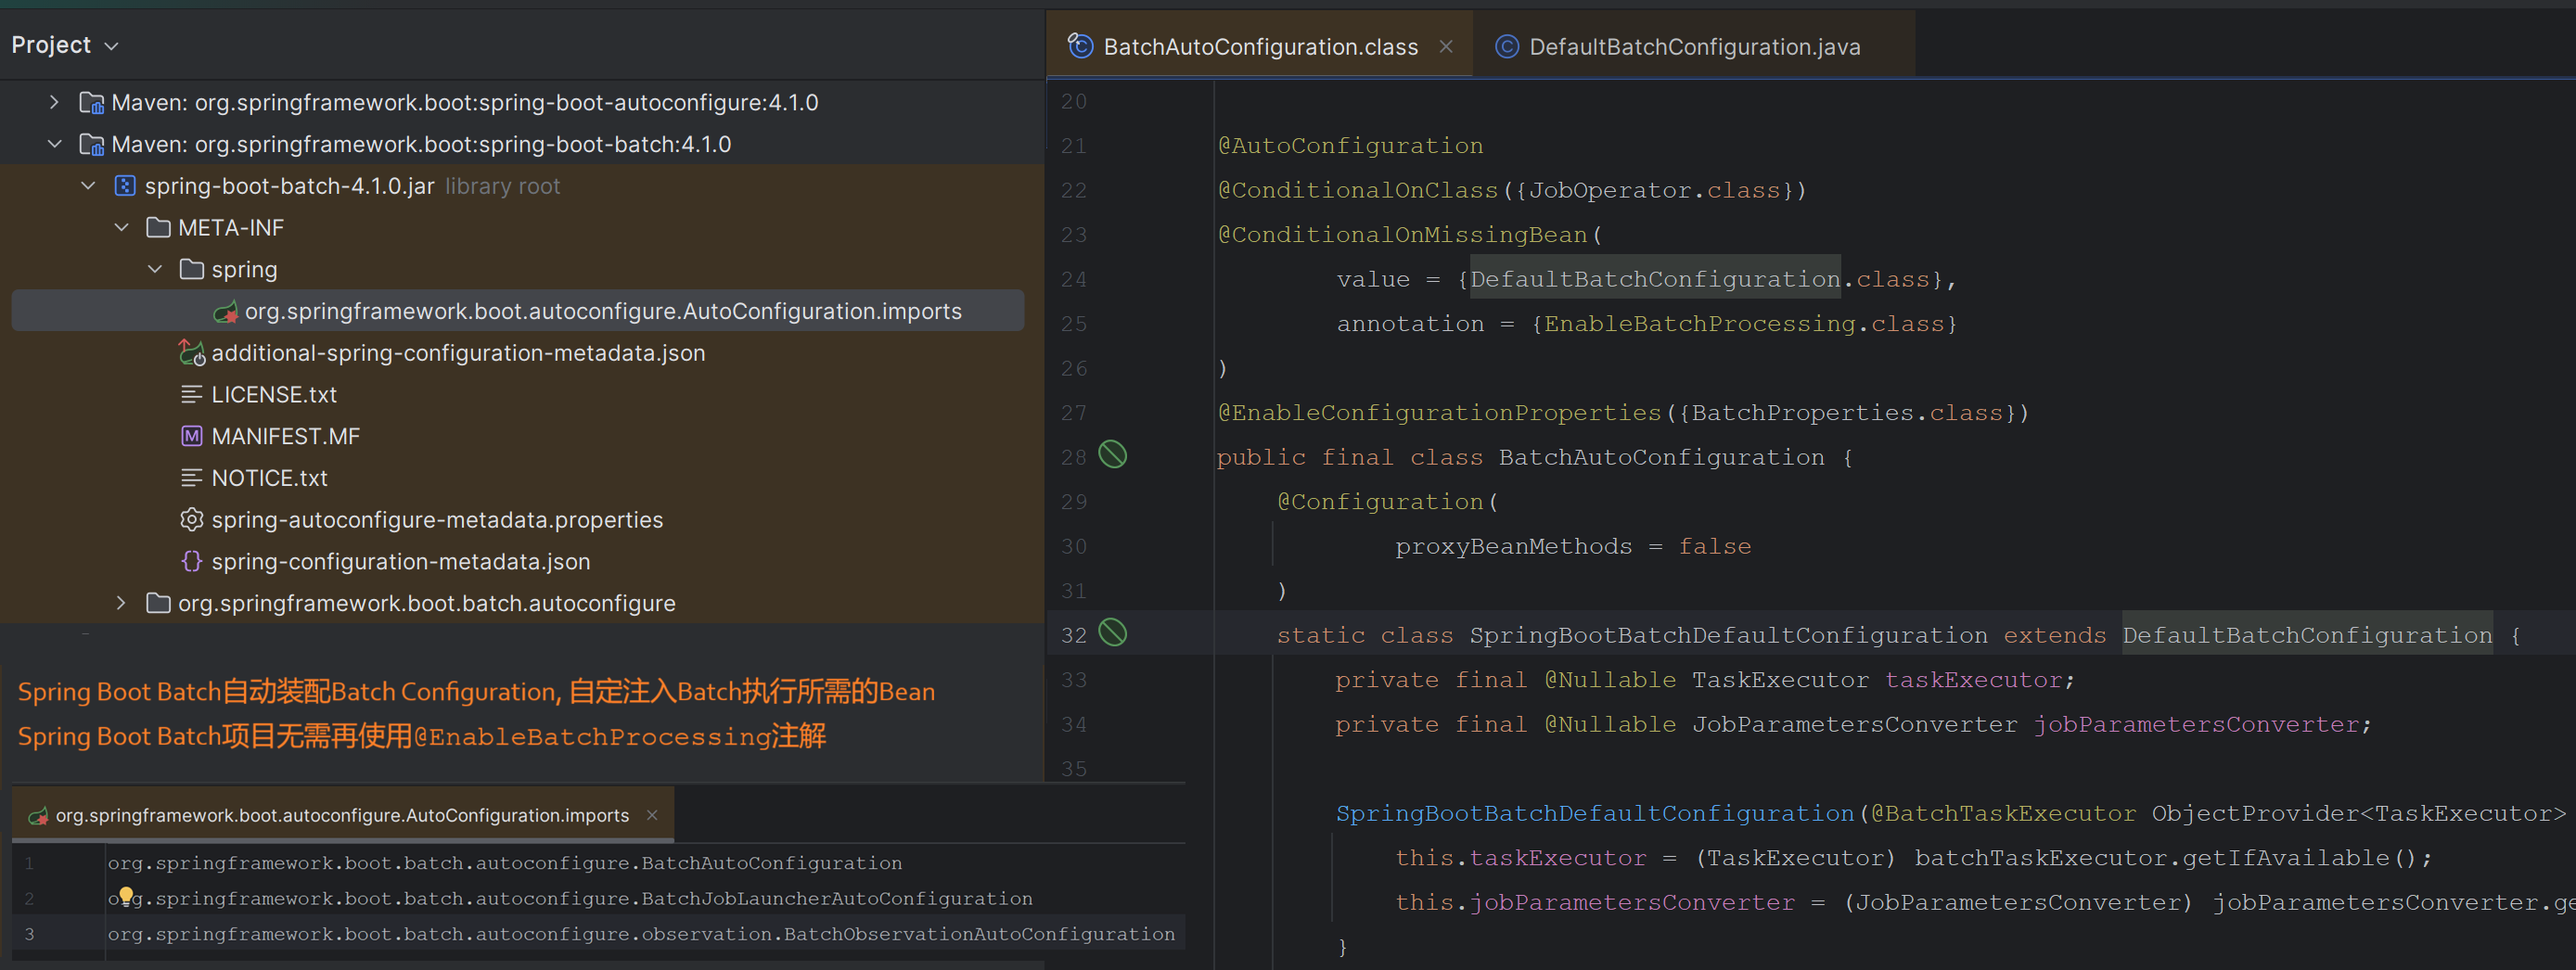
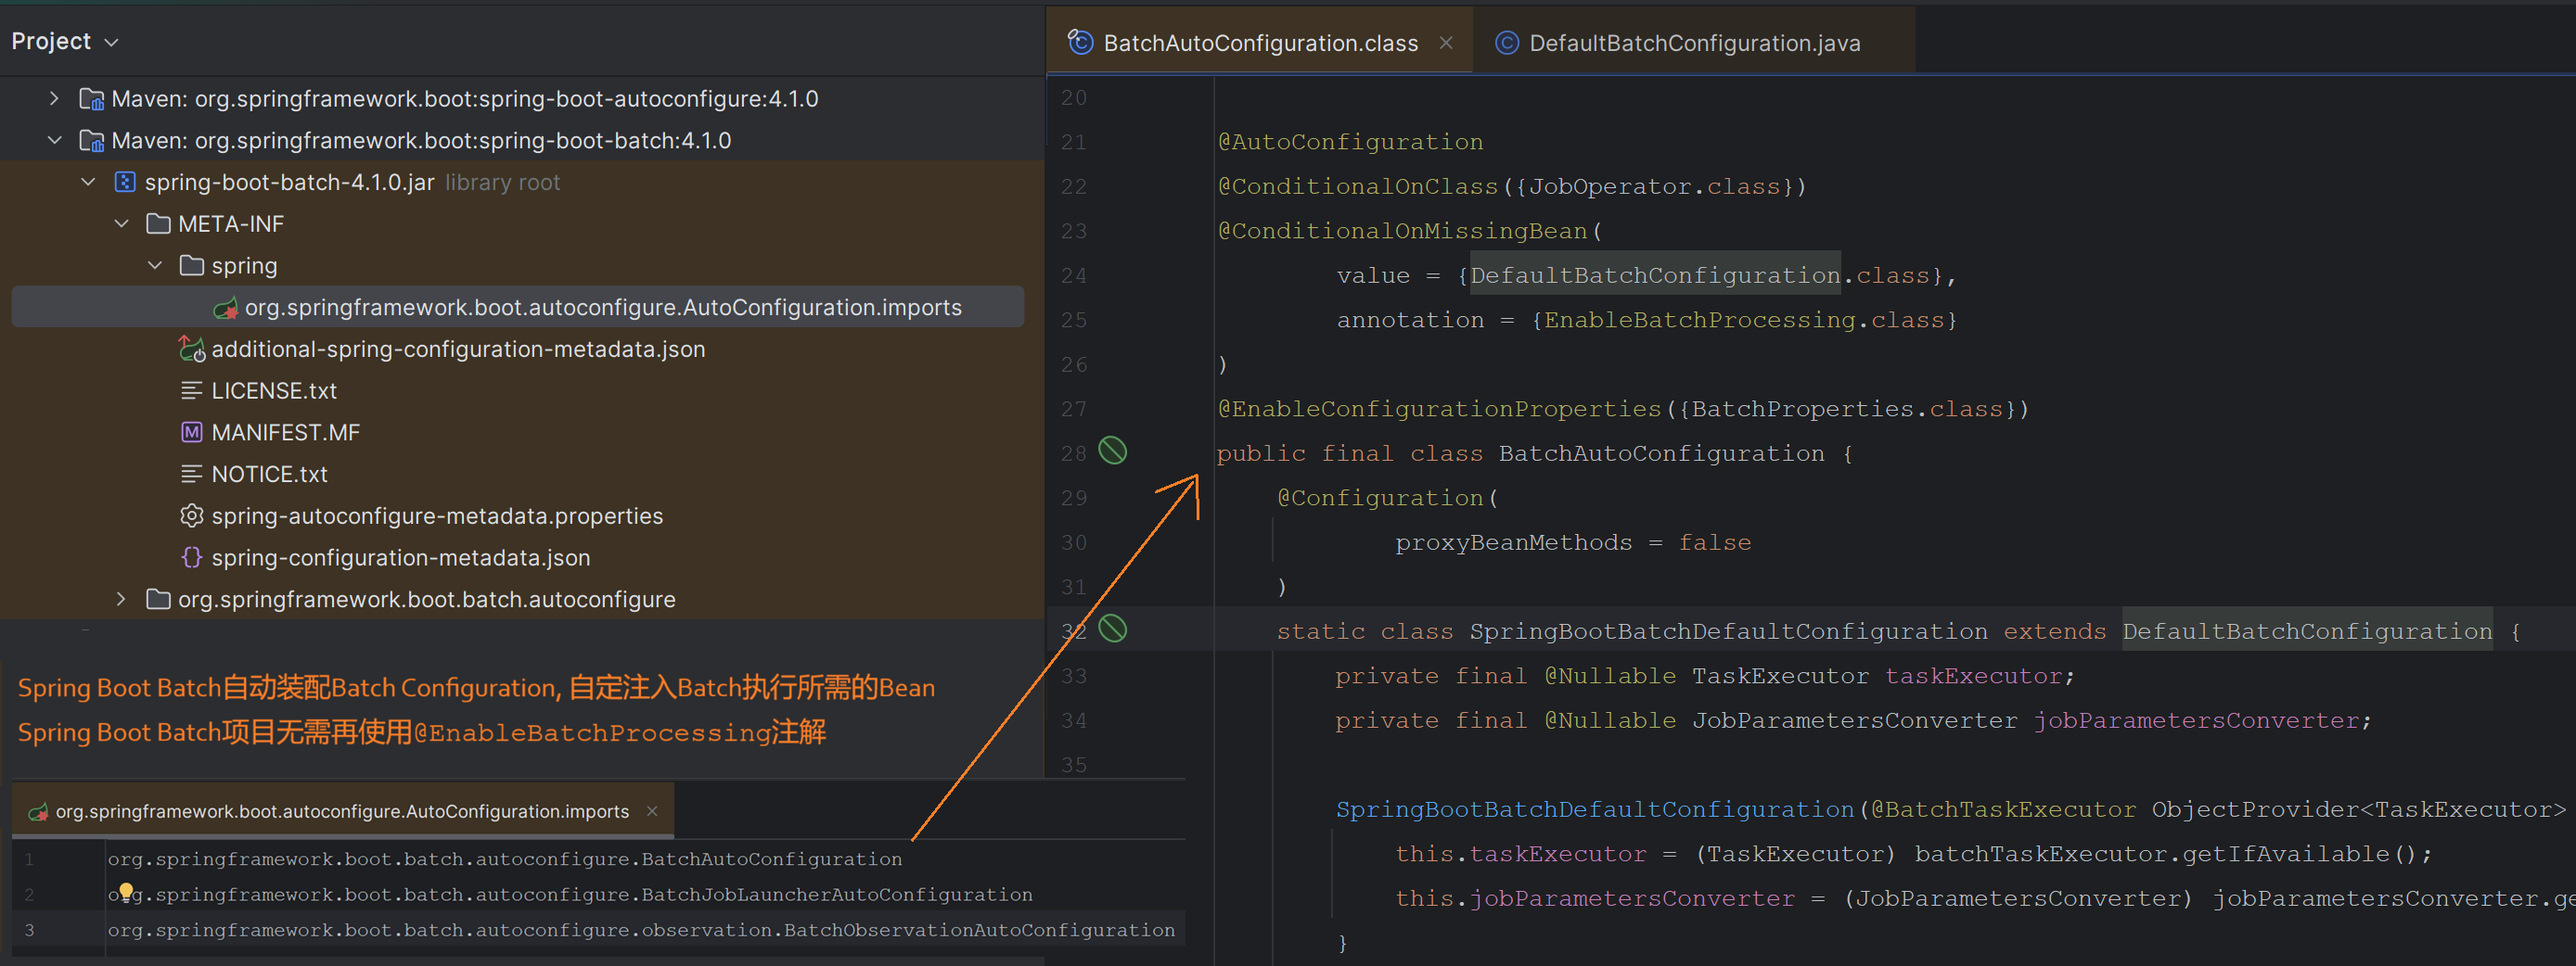
refresh spring batch listener

diff --git a/spring-batch-core/src/main/java/spring/batch/csv2xml/CsvToXmlJobConfiguration.java b/spring-batch-core/src/main/java/spring/batch/csv2xml/CsvToXmlJobConfiguration.java
@@ -11,6 +11,7 @@ import org.springframework.batch.infrastructure.item.file.transform.DelimitedLin
 import org.springframework.beans.factory.annotation.Qualifier;
 import org.springframework.oxm.jaxb.Jaxb2Marshaller;
 import spring.batch.csv2xml.bean.Transaction;
+import spring.batch.csv2xml.listener.MyChunkListener;
 import spring.batch.csv2xml.listener.MyItemProcessorListener;
 import spring.batch.csv2xml.process.TransactionItemProcessor;
 import spring.batch.csv2xml.listener.MyJobExecutionListener;
@@ -28,25 +29,32 @@ import java.time.format.DateTimeFormatter;
 public class CsvToXmlJobConfiguration {
 
     @Bean(name = "csvToXmlJob")
-    public Job csvToXmljob(JobRepository jobRepository, @Qualifier("csvToXmlStep") Step csvToXmlStep) {
+    public Job csvToXmljob(JobRepository jobRepository,
+                           MyJobExecutionListener jobExecutionListener,
+                           @Qualifier("csvToXmlStep") Step csvToXmlStep) {
         return new JobBuilder("Csv To Xml Job", jobRepository)
                 .preventRestart()
-                .listener(MyJobExecutionListener.class) // Job Listener
+                .listener(jobExecutionListener)  // Job Listener
                 .start(csvToXmlStep)
                 .build();
     }
 
+    // TODO. 统一设置Step在执行过程中多种Listener监听器
     @Bean(name = "csvToXmlStep")
     public Step csvToXmlStep(JobRepository jobRepository,
-                            ItemReader<Transaction> reader,
-                            TransactionItemProcessor itemProcessor,
-                            ItemWriter<Transaction> writer) {
+                             ItemReader<Transaction> reader,
+                             TransactionItemProcessor itemProcessor,
+                             ItemWriter<Transaction> writer,
+                             MyStepExecutionListener stepExecutionListener,
+                             MyChunkListener chunkListener,
+                             MyItemProcessorListener itemProcessorListener) {
         return new StepBuilder("Csv To Xml Step", jobRepository)
-                .listener(MyStepExecutionListener.class) // Step Listener
+                .listener(stepExecutionListener) // Step Listener
                 .<Transaction, Transaction>chunk(3)
+                .listener(chunkListener)         // Chunk Listener
                 .reader(reader)
                 .processor(itemProcessor)
-                .listener(MyItemProcessorListener.class) // Item Listener
+                .listener(itemProcessorListener) // Item Listener
                 .writer(writer)
                 .build();
     }

diff --git a/spring-batch-project/src/main/java/project/transaction/CustomTransactionTemplate.java b/spring-batch-project/src/main/java/project/transaction/CustomTransactionTemplate.java
@@ -3,19 +3,19 @@ package project.transaction;
 import org.springframework.jdbc.datasource.DataSourceTransactionManager;
 import org.springframework.stereotype.Component;
 import org.springframework.transaction.TransactionDefinition;
-import org.springframework.transaction.support.TransactionCallbackWithoutResult;
+import org.springframework.transaction.TransactionStatus;
 import org.springframework.transaction.support.TransactionTemplate;
 
 import javax.sql.DataSource;
+import java.util.function.Consumer;
 
-// TODO. TransactionTemplate.execute() 编程式事务控制
-// - 配置数据持久化事务的Callback和Listener
-// - 设置事务执行的隔离级别和传播机制
+// TODO. TransactionTemplate.execute()编程式事务控制
 @Component
 public class CustomTransactionTemplate {
 
-    private TransactionTemplate transactionTemplate;
+    private final TransactionTemplate transactionTemplate;
 
+    // 设置事务执行的隔离级别和传播机制
     public CustomTransactionTemplate(DataSource dataSource) {
         DataSourceTransactionManager txManager = new DataSourceTransactionManager(dataSource);
         transactionTemplate = new TransactionTemplate(txManager);
@@ -23,12 +23,15 @@ public class CustomTransactionTemplate {
         transactionTemplate.setPropagationBehavior(TransactionDefinition.PROPAGATION_REQUIRED);
     }
 
-    public void execute(TransactionCallbackWithoutResult callback, CustomTransactionListener listener) {
+    // 为事务的执行添加Listener监听器控制
+    // Execute the action specified by the given Runnable within a transaction.
+    public void execute(Consumer<TransactionStatus> action, CustomTransactionListener listener) {
         if (listener == null) {
             throw new RuntimeException("listener can't be null");
         }
+
         listener.beforeTransaction();
-        this.transactionTemplate.execute(callback);
+        this.transactionTemplate.executeWithoutResult(action);
         listener.afterTransaction();
     }
 }

diff --git a/spring-batch-project/src/main/java/project/DatabaseConfiguration.java b/spring-batch-project/src/main/java/project/DatabaseConfiguration.java
@@ -14,6 +14,17 @@ import javax.sql.DataSource;
 public class DatabaseConfiguration extends DefaultBatchConfiguration {
 
     @Bean
+    public DataSource dataSource() {
+        DriverManagerDataSource dataSource = new DriverManagerDataSource();
+        dataSource.setDriverClassName("org.postgresql.Driver");
+        dataSource.setUsername("postgres");
+        dataSource.setPassword("postgres");
+        dataSource.setUrl("jdbc:postgresql://localhost:5432/spring_batch");
+        return dataSource;
+    }
+
+    // 注入JobRepository并设置事务隔离级别, 具体隔离级别可由TransactionTemplate控制
+    @Bean
     public JobRepository jobRepository(DataSource dataSource) throws BatchConfigurationException {
         try {
             JdbcJobRepositoryFactoryBean factory = new JdbcJobRepositoryFactoryBean();
@@ -25,15 +36,5 @@ public class DatabaseConfiguration extends DefaultBatchConfiguration {
         } catch (Exception exception) {
             throw new BatchConfigurationException("Unable to configure the default job repository", exception);
         }
-    }
-
-    @Bean
-    public DataSource dataSource() {
-        DriverManagerDataSource dataSource = new DriverManagerDataSource();
-        dataSource.setDriverClassName("org.postgresql.Driver");
-        dataSource.setUsername("postgres");
-        dataSource.setPassword("postgres");
-        dataSource.setUrl("jdbc:postgresql://localhost:5432/spring_batch");
-        return dataSource;
     }
 }

diff --git a/spring-batch-core/src/main/java/spring/batch/DatabaseConfiguration.java b/spring-batch-core/src/main/java/spring/batch/DatabaseConfiguration.java
@@ -13,7 +13,16 @@ import javax.sql.DataSource;
 @Configuration
 public class DatabaseConfiguration extends DefaultBatchConfiguration {
 
-    // 注入JobRepository: 修改事务隔离级别"ISOLATION_SERIALIZABLE"以支持事务并发
+    @Bean
+    public DataSource dataSource() {
+        DriverManagerDataSource dataSource = new DriverManagerDataSource();
+        dataSource.setDriverClassName("org.postgresql.Driver");
+        dataSource.setUsername("postgres");
+        dataSource.setPassword("postgres");
+        dataSource.setUrl("jdbc:postgresql://localhost:5432/spring_batch");
+        return dataSource;
+    }
+
     @Bean
     public JobRepository jobRepository(DataSource dataSource) throws BatchConfigurationException {
         try {
@@ -26,15 +35,5 @@ public class DatabaseConfiguration extends DefaultBatchConfiguration {
         } catch (Exception exception) {
             throw new BatchConfigurationException("Unable to configure the default job repository", exception);
         }
-    }
-
-    @Bean
-    public DataSource dataSource() {
-        DriverManagerDataSource dataSource = new DriverManagerDataSource();
-        dataSource.setDriverClassName("org.postgresql.Driver");
-        dataSource.setUsername("postgres");
-        dataSource.setPassword("postgres");
-        dataSource.setUrl("jdbc:postgresql://localhost:5432/spring_batch");
-        return dataSource;
     }
 }

diff --git a/spring-batch-project/src/main/java/project/transaction/RecordTransactionService.java b/spring-batch-project/src/main/java/project/transaction/RecordTransactionService.java
@@ -5,11 +5,12 @@ import org.springframework.jdbc.core.namedparam.SqlParameterSource;
 import org.springframework.jdbc.core.namedparam.SqlParameterSourceUtils;
 import org.springframework.stereotype.Service;
 import org.springframework.transaction.TransactionStatus;
-import org.springframework.transaction.support.TransactionCallbackWithoutResult;
 
 import javax.sql.DataSource;
 import java.util.List;
+import java.util.function.Consumer;
 
+// TODO. 为Batch批提交添加编程式事务控制
 @Service
 public class RecordTransactionService {
 
@@ -21,11 +22,10 @@ public class RecordTransactionService {
         this.namedParameterJdbcTemplate = new NamedParameterJdbcTemplate(dataSource);
     }
 
-    // TODO. 为Batch批提交添加编程式事务控制
     public void insert(List<String> records) {
-        this.transactionTemplate.execute(new TransactionCallbackWithoutResult() {
+        this.transactionTemplate.execute(new Consumer<TransactionStatus>() {
             @Override
-            protected void doInTransactionWithoutResult(TransactionStatus status) {
+            public void accept(TransactionStatus transactionStatus) {
                 batchUpdate(records, "sql");
             }
         }, new CustomTransactionListenerImpl());

diff --git a/spring-batch-core/src/main/java/spring/batch/csv2xml/listener/MyJobExecutionListener.java b/spring-batch-core/src/main/java/spring/batch/csv2xml/listener/MyJobExecutionListener.java
@@ -1,10 +1,11 @@
 package spring.batch.csv2xml.listener;
 
-
 import org.springframework.batch.core.job.JobExecution;
 import org.springframework.batch.core.listener.JobExecutionListener;
+import org.springframework.stereotype.Component;
 
-// JOB执行的监听器，可以在执行前后完成额外的操作
+// JOB执行的监听器，在执行前后执行额外操作
+@Component
 public class MyJobExecutionListener implements JobExecutionListener {
 
     @Override
@@ -13,8 +14,11 @@ public class MyJobExecutionListener implements JobExecutionListener {
         System.out.println(jobName);
     }
 
+    // 判断JOB执行参数，统计时间，释放资源，日志监控等
     @Override
     public void afterJob(JobExecution jobExecution) {
-        // 可以统计Job执行完成的时间
+        System.out.println("=== After JOB ===");
+        System.out.println(jobExecution.getStatus());
+        System.out.println(jobExecution.getJobParameters().getLong("timestamp"));
     }
 }

diff --git a/spring-batch-core/src/main/java/spring/batch/SpringBatchCoreApplication.java b/spring-batch-core/src/main/java/spring/batch/SpringBatchCoreApplication.java
@@ -13,13 +13,13 @@ import org.springframework.batch.core.job.parameters.JobParameters;
 @SpringBootApplication
 public class SpringBatchCoreApplication {
 
+    // 连接DB的JobRepository类型是Proxy代理类型
     public static void main(String[] args) throws Exception {
         ConfigurableApplicationContext context = new SpringApplication(SpringBatchCoreApplication.class).run();
-        // 连接DB的JobRepository类型是Proxy代理类型
         JobRepository jobRepository = context.getBean(JobRepository.class);
         JobOperator jobOperator = context.getBean(JobOperator.class);
 
-        Job job = (Job) context.getBean("xmlToDbJob");
+        Job job = (Job) context.getBean("csvToXmlJob");
         JobExecution execution = jobOperator.start(job, getJobParameter());
         System.out.println("Job Status : " + execution.getStatus());
         System.out.println("Job completed");

diff --git a/spring-batch-core/src/main/java/spring/batch/csv2xml/listener/MyStepExecutionListener.java b/spring-batch-core/src/main/java/spring/batch/csv2xml/listener/MyStepExecutionListener.java
@@ -3,17 +3,19 @@ package spring.batch.csv2xml.listener;
 import org.springframework.batch.core.ExitStatus;
 import org.springframework.batch.core.listener.StepExecutionListener;
 import org.springframework.batch.core.step.StepExecution;
+import org.springframework.stereotype.Component;
 
+@Component
 public class MyStepExecutionListener implements StepExecutionListener {
 
     @Override
     public void beforeStep(StepExecution stepExecution) {
-        System.out.println("Before step: {}" + stepExecution.getStepName());
+        System.out.println("Before step: " + stepExecution.getStepName());
     }
 
     @Override
     public ExitStatus afterStep(StepExecution stepExecution) {
-        System.out.println("After step: {}" + stepExecution.getStepName());
+        System.out.println("After step: " + stepExecution.getStepName());
         return stepExecution.getExitStatus();
     }
 }

diff --git a/spring-batch-core/src/main/java/spring/batch/csv2xml/listener/MyChunkListener.java b/spring-batch-core/src/main/java/spring/batch/csv2xml/listener/MyChunkListener.java
@@ -1,0 +1,20 @@
+package spring.batch.csv2xml.listener;
+
+import org.springframework.batch.core.listener.ChunkListener;
+import org.springframework.batch.infrastructure.item.Chunk;
+import org.springframework.stereotype.Component;
+import spring.batch.csv2xml.bean.Transaction;
+
+@Component
+public class MyChunkListener implements ChunkListener<Transaction, Transaction> {
+
+    @Override
+    public void beforeChunk(Chunk<Transaction> chunk) {
+        System.out.println("Start reading chunk size: " + chunk.size());
+    }
+
+    @Override
+    public void afterChunk(Chunk<Transaction> chunk) {
+        System.out.println("Finish chunk size: " + chunk.size());
+    }
+}

diff --git a/spring-batch-core/src/main/java/spring/batch/csv2db/CsvToDbJobConfiguration.java b/spring-batch-core/src/main/java/spring/batch/csv2db/CsvToDbJobConfiguration.java
@@ -43,7 +43,7 @@ public class CsvToDbJobConfiguration {
                 .build();
     }
 
-    // 多CSV文件中读取Java对象数据
+    // 解析CSV文件中每一行的Token数据信息
     @Bean(name = "productLineMapper")
     public LineMapper<Product> productLineMapper(FieldSetMapper<Product> productFieldSetMapper) {
         DelimitedLineTokenizer lineTokenizer = new DelimitedLineTokenizer();
@@ -55,6 +55,7 @@ public class CsvToDbJobConfiguration {
         return lineMapper;
     }
 
+    // 自动义Token值到对象属性值的映射
     @Bean
     public FieldSetMapper<Product> productFieldSetMapper() {
         return fieldSet -> {

diff --git a/spring-batch-core/src/main/java/spring/batch/csv2db/process/ProductItemReader.java b/spring-batch-core/src/main/java/spring/batch/csv2db/process/ProductItemReader.java
@@ -6,6 +6,7 @@ import org.springframework.core.io.FileSystemResource;
 import org.springframework.stereotype.Component;
 import spring.batch.csv2db.bean.Product;
 
+import java.nio.charset.StandardCharsets;
 import java.nio.file.FileSystems;
 import java.nio.file.Path;
 
@@ -17,7 +18,7 @@ public class ProductItemReader extends FlatFileItemReader<Product> {
 
         Path filepath = FileSystems.getDefault().getPath("drive_folder/csv/products.csv");
         setResource(new FileSystemResource(filepath));
-
         setLinesToSkip(1);
+        setEncoding(StandardCharsets.UTF_8.name());
     }
 }

diff --git a/spring-batch-core/src/main/java/spring/batch/csv2xml/listener/MyItemProcessorListener.java b/spring-batch-core/src/main/java/spring/batch/csv2xml/listener/MyItemProcessorListener.java
@@ -1,9 +1,11 @@
 package spring.batch.csv2xml.listener;
 
 import org.springframework.batch.core.listener.ItemProcessListener;
+import org.springframework.stereotype.Component;
 import spring.batch.csv2xml.bean.Transaction;
 
 // 监听数据处理过程的前后时间
+@Component
 public class MyItemProcessorListener implements ItemProcessListener<Transaction, Transaction> {
 
     @Override
